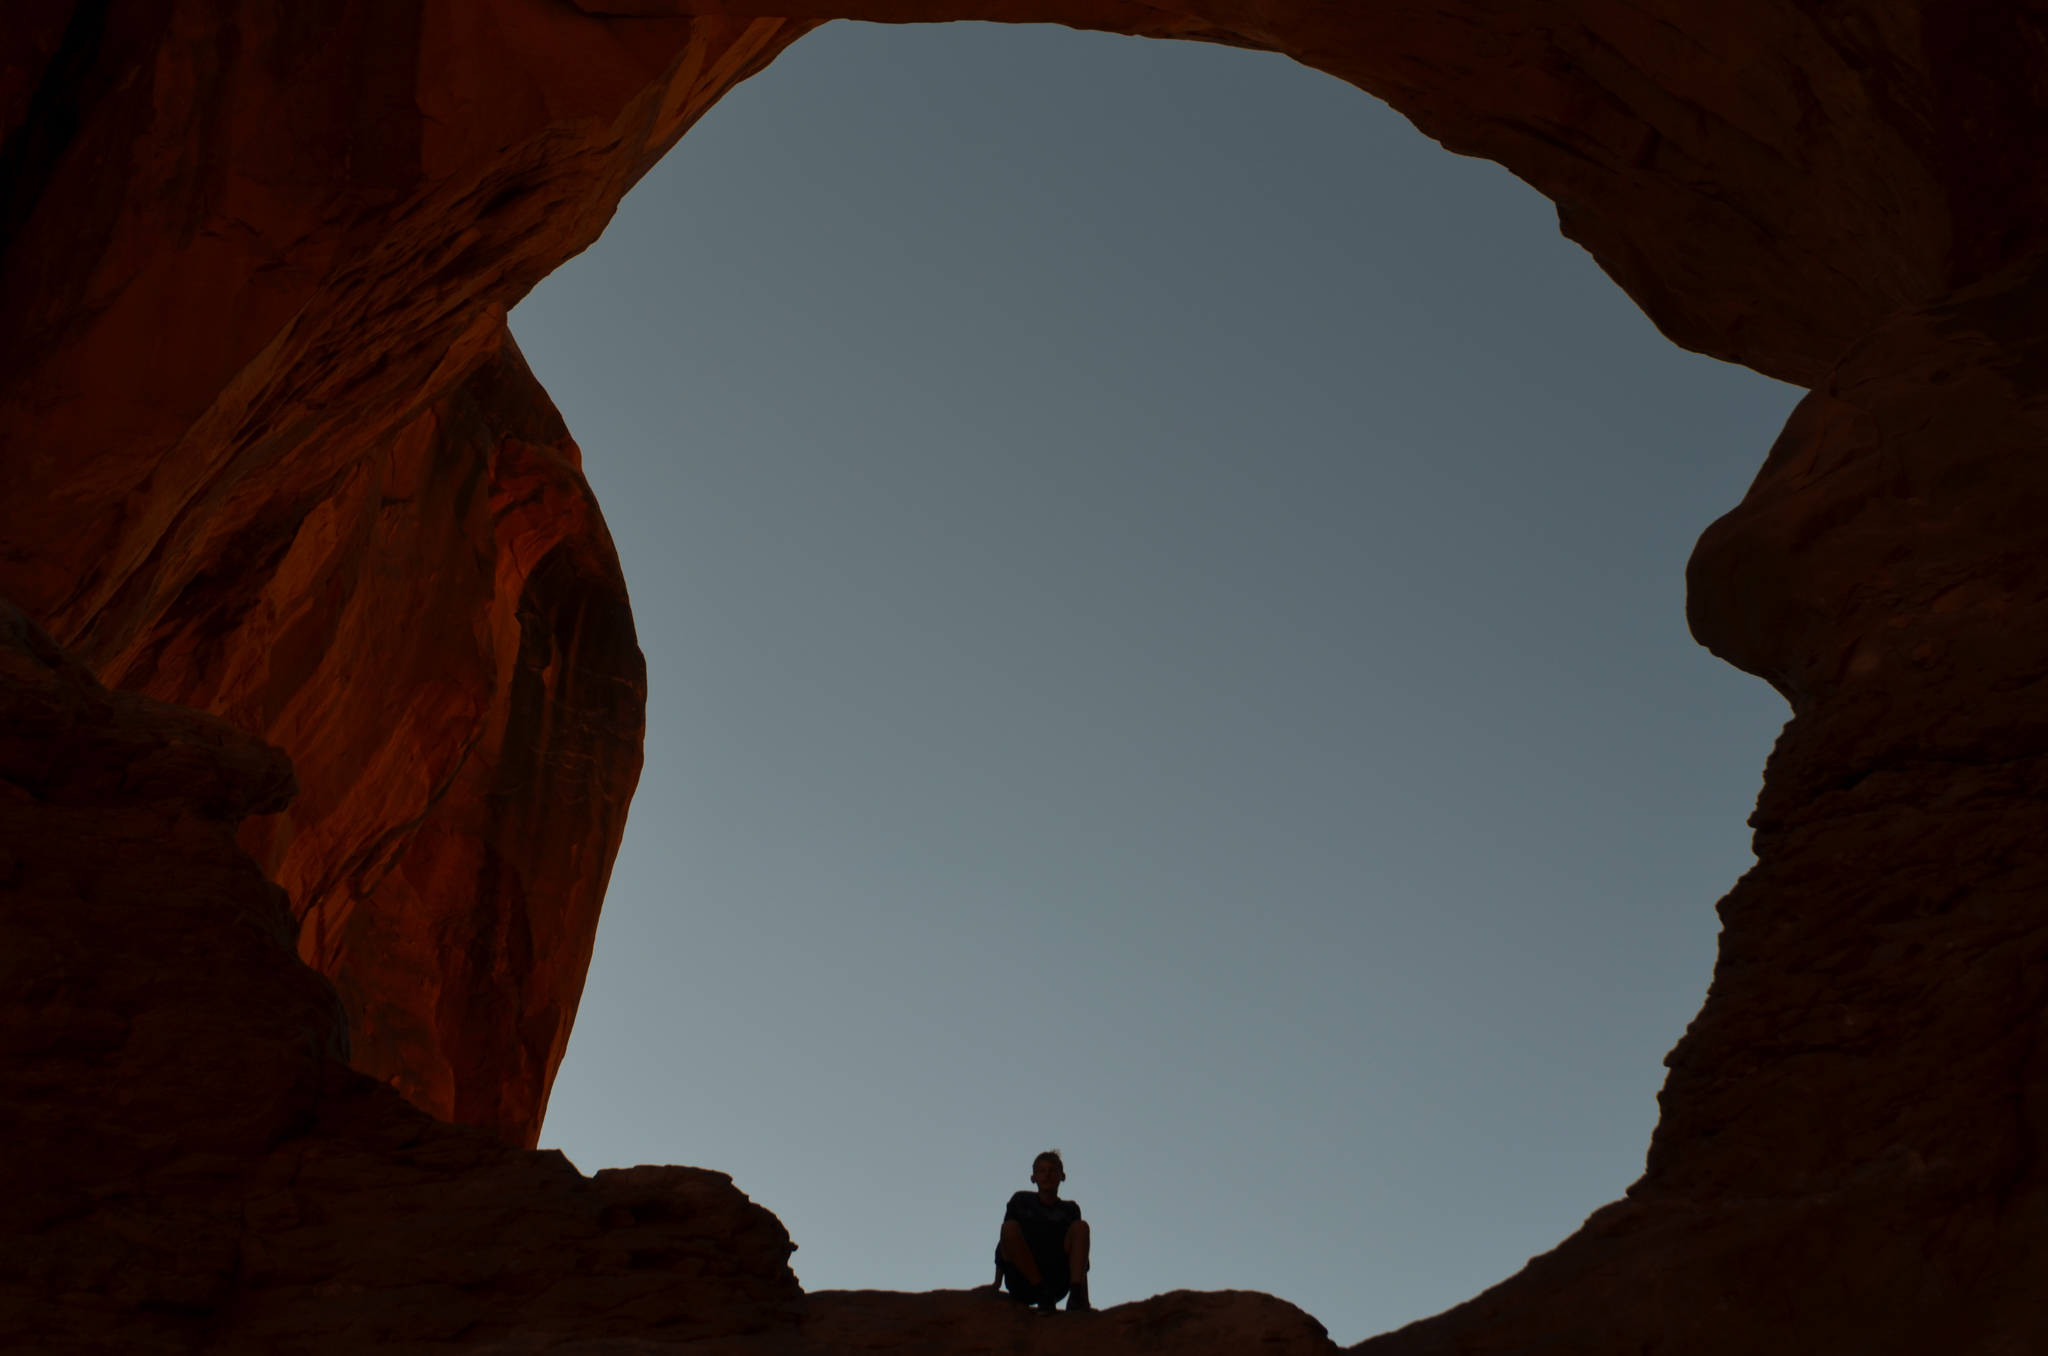
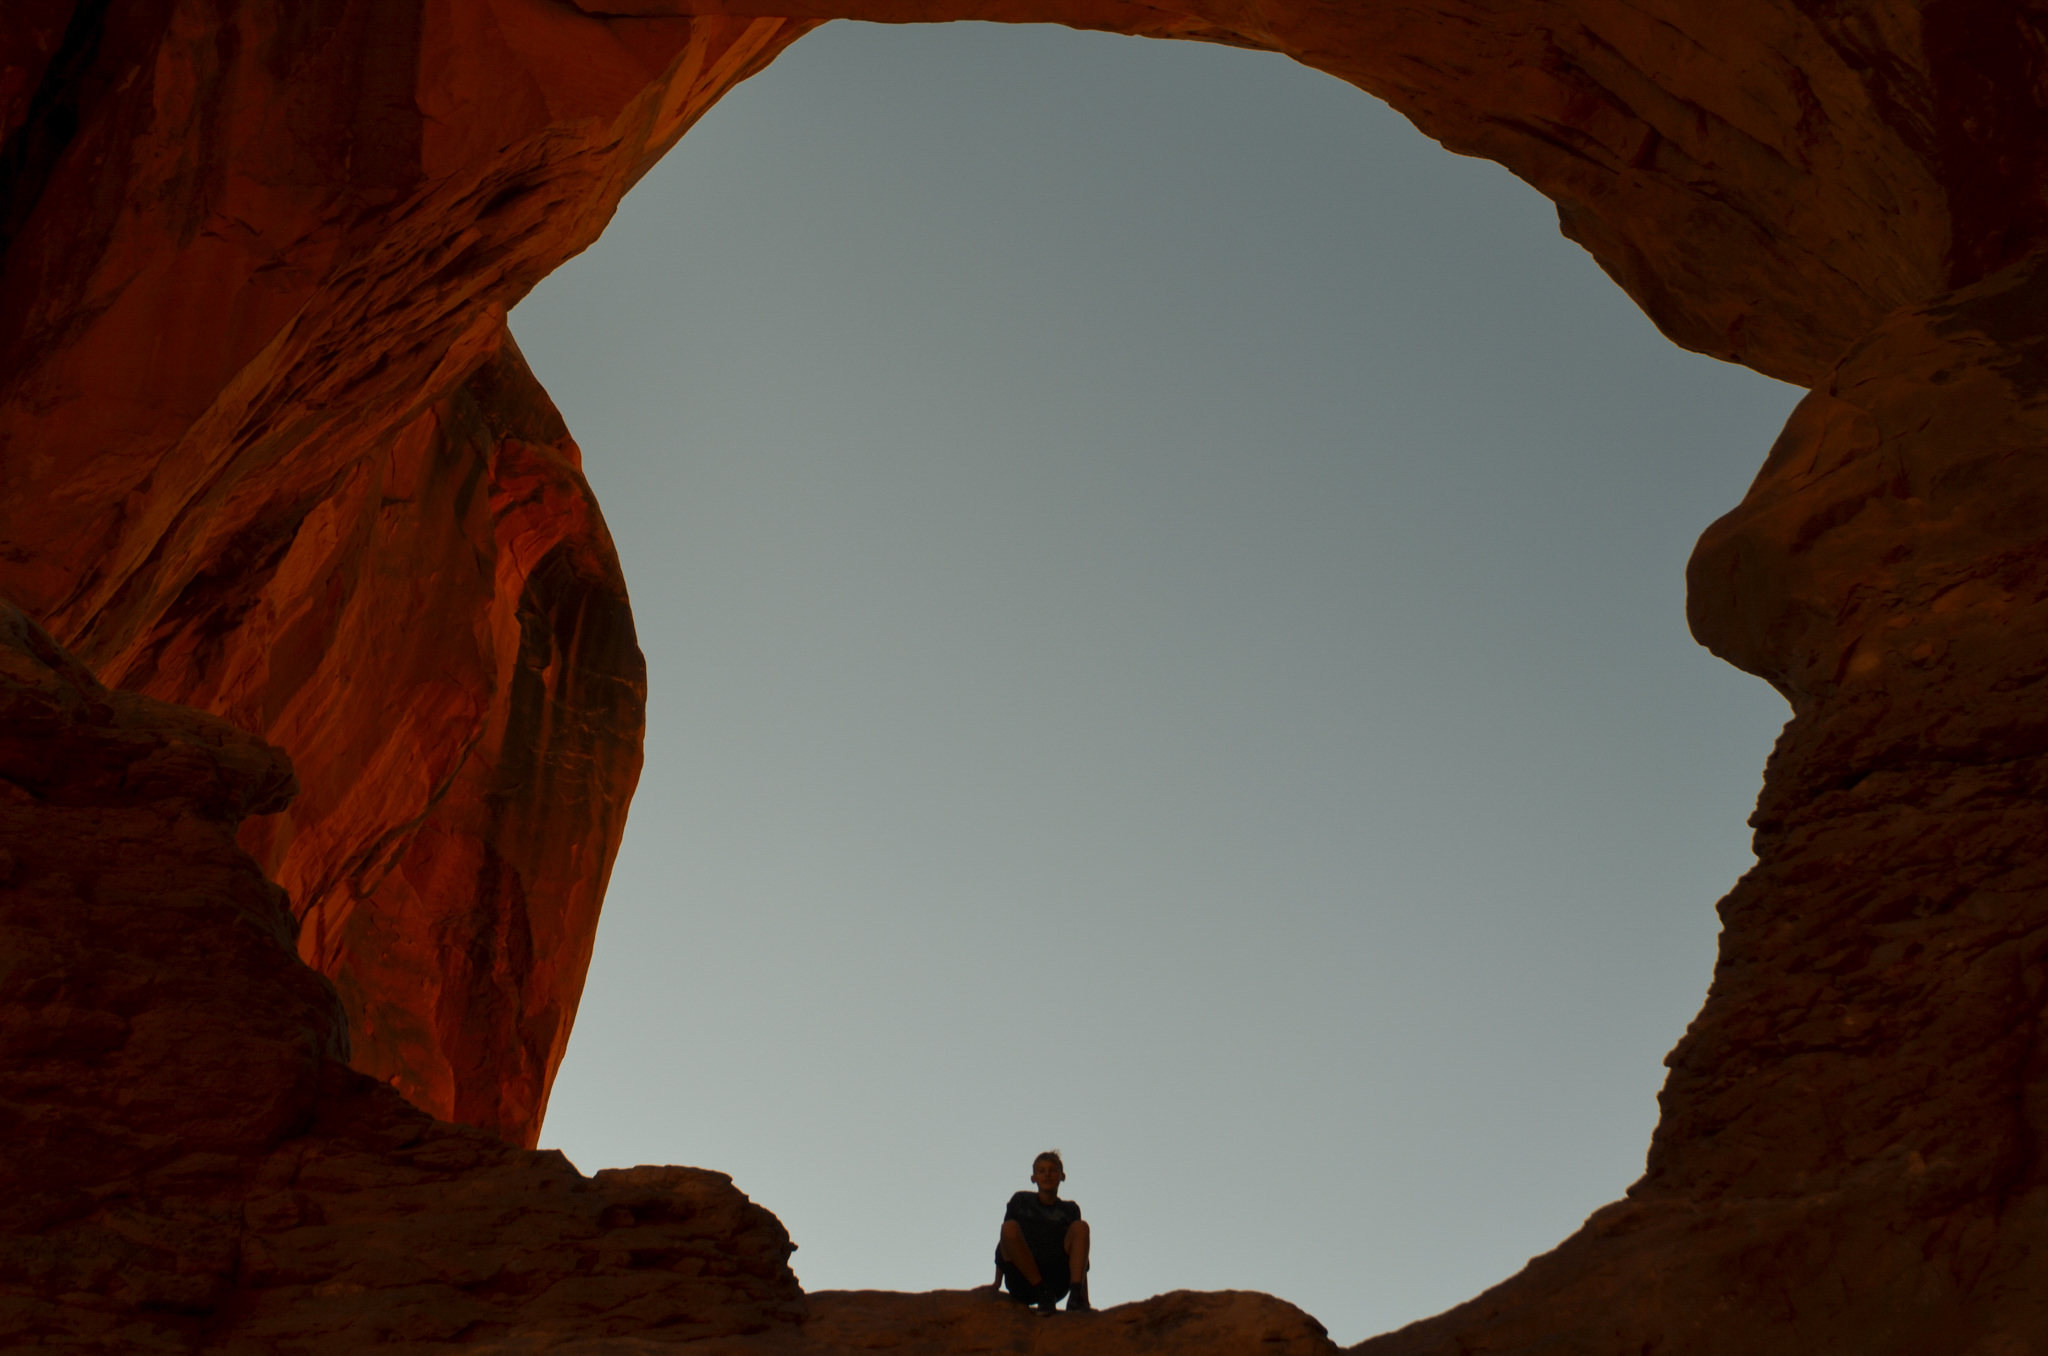
Add files via upload

diff --git a/index.html b/index.html
@@ -1,3 +1,12 @@
+/* 
+To update:
+(In terminal)
+cd /Users/lukedulski/Downloads/lukedulskiphotography
+git add .
+git commit -m "New update"
+git push
+*/
+
 <!DOCTYPE html>
 <html lang="en">
 <head>
